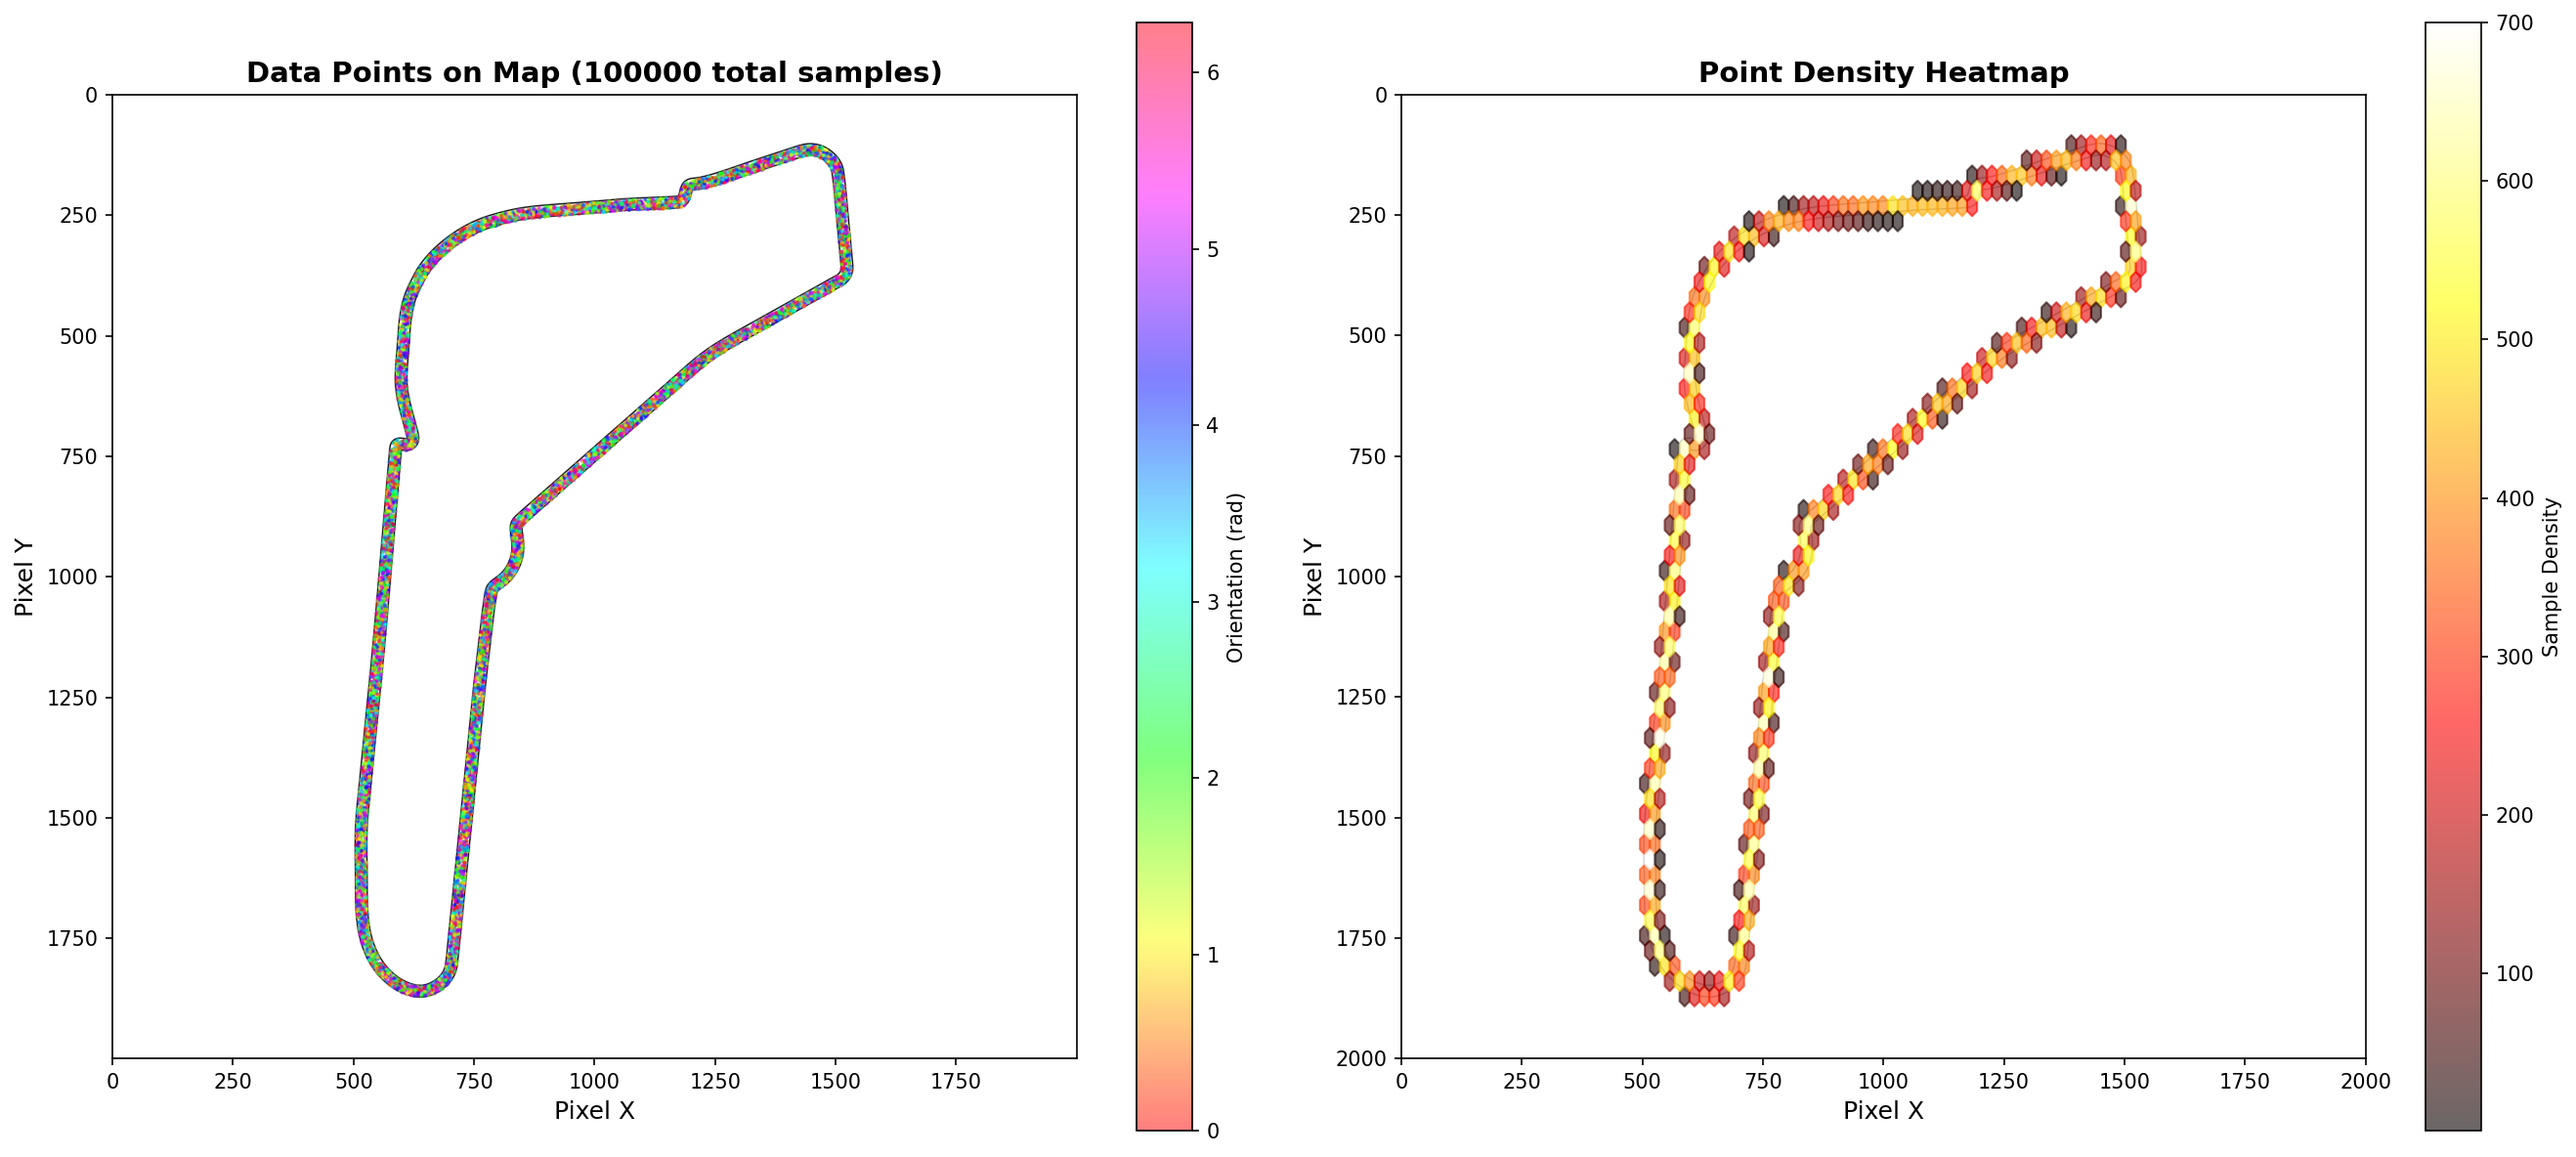
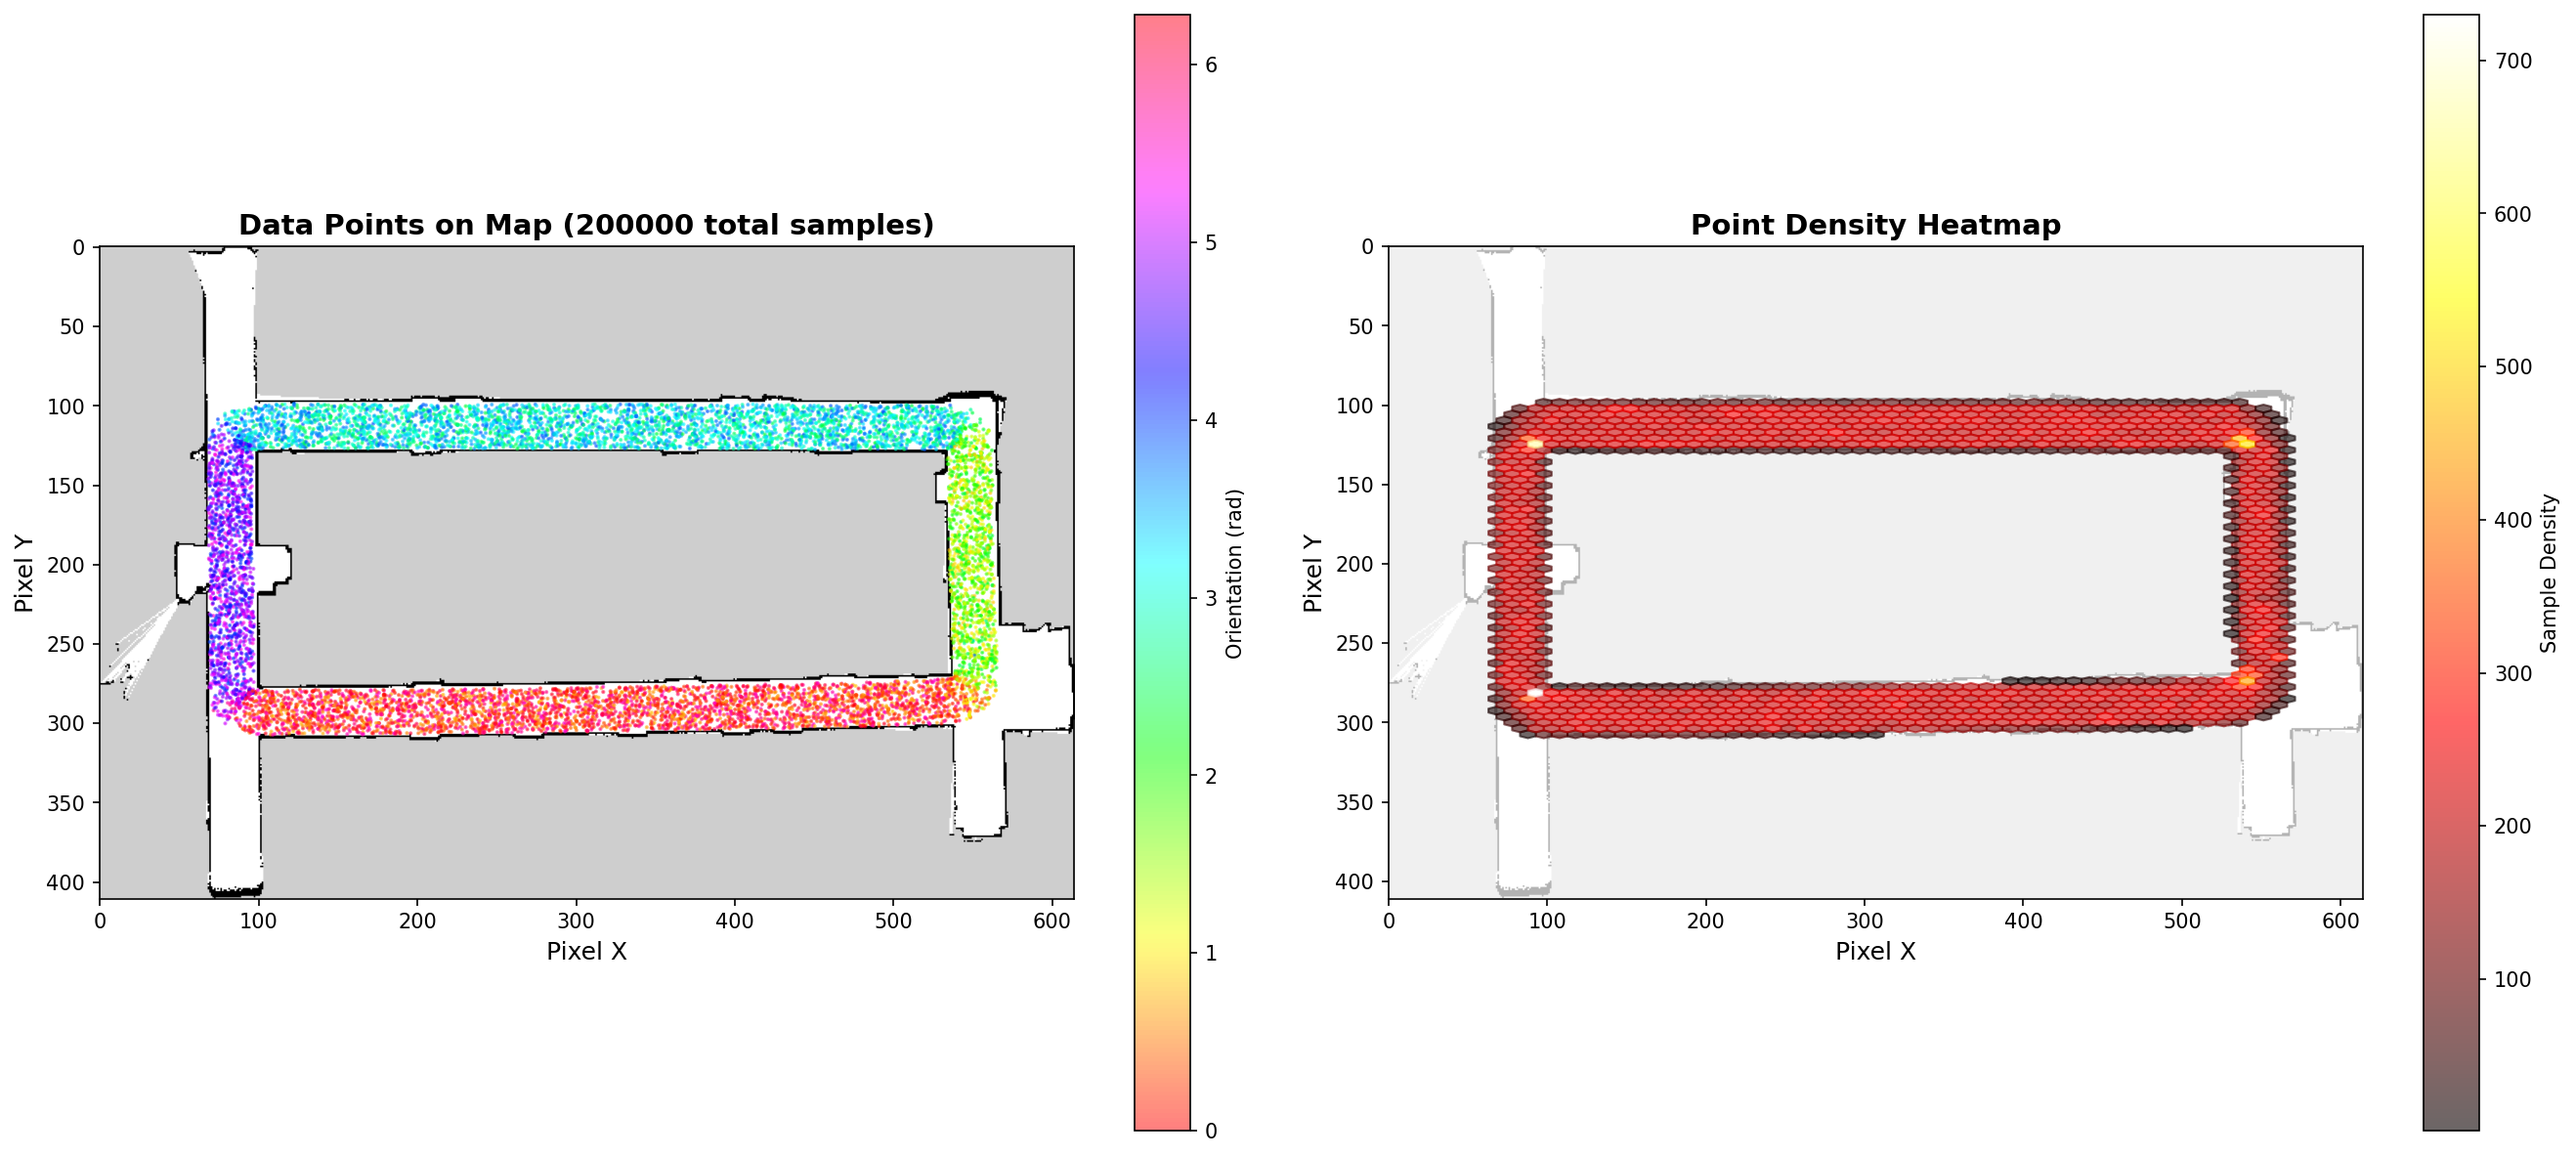
new changes

diff --git a/examples/data_collection/visualize_data_on_map.py b/examples/data_collection/visualize_data_on_map.py
@@ -11,7 +11,7 @@ from argparse import Namespace
 
 def load_map_image(map_path, map_ext):
     """Load the map image"""
-    if map_ext == '.png':
+    if map_ext in ['.png', '.pgm']:
         img = mpimg.imread(map_path + map_ext)
     else:
         print(f"Map extension {map_ext} not supported for visualization")
@@ -54,20 +54,30 @@ def visualize_data_on_map(data_file, config_file, max_points=None):
     print(f"X: min={x_positions.min():.2f}, max={x_positions.max():.2f}")
     print(f"Y: min={y_positions.min():.2f}, max={y_positions.max():.2f}")
 
+    # Derive map path from yaml 'image' field or 'map_path'/'map_ext' fields
+    if hasattr(conf, 'map_path') and hasattr(conf, 'map_ext'):
+        map_full_path = conf.map_path
+        map_ext = conf.map_ext
+    else:
+        # Levine-style yaml: has 'image' field with filename
+        import os
+        config_dir = os.path.dirname(config_file)
+        map_filename = conf.image  # e.g. 'levine_slam.pgm'
+        map_ext = os.path.splitext(map_filename)[1]
+        map_full_path = os.path.join(config_dir, os.path.splitext(map_filename)[0])
+
     # Load map image
-    print(f"\nLoading map from {conf.map_path}{conf.map_ext}...")
-    map_img = load_map_image(conf.map_path, conf.map_ext)
+    print(f"\nLoading map from {map_full_path}{map_ext}...")
+    map_img = load_map_image(map_full_path, map_ext)
 
     if map_img is None:
         print("Could not load map image, showing positions only")
         plot_positions_only(x_positions, y_positions, theta_positions, max_points)
         return
 
-    # Get map metadata from YAML
-    map_yaml_path = conf.map_path + '.yaml'
+    # Get map metadata from YAML (already loaded as conf)
     try:
-        with open(map_yaml_path) as f:
-            map_metadata = yaml.safe_load(f)
+        map_metadata = conf_dict
 
         resolution = map_metadata['resolution']
         origin = map_metadata['origin']
@@ -203,8 +213,8 @@ def plot_positions_only(x_positions, y_positions, theta_positions, max_points=No
 
 def main():
     # Configuration
-    data_file = 'Monza_100k.npz'  # Update path as needed
-    config_file = '../Monza/Monza_map.yaml'  # Update path as needed
+    data_file = 'Levine_200k.npz'
+    config_file = '../Levine/levine_slam.yaml'
     max_points = 10000  # Limit points for faster rendering
 
     visualize_data_on_map(data_file, config_file, max_points)

diff --git a/examples/collect_conformal_scores.py b/examples/collect_conformal_scores.py
@@ -84,6 +84,9 @@ def compute_residuals(model_path, calibration_data_path, n_input=360, n_hidden=2
     model.eval()
     print("Model loaded successfully!")
 
+    # Normalize LiDAR scans by max range (30m)
+    lidar_scans = lidar_scans / 30.0
+
     # Convert data to PyTorch tensors
     X = torch.from_numpy(lidar_scans).to(device)
     y_true = torch.from_numpy(poses).to(device)
@@ -253,14 +256,14 @@ def visualize_residual_distributions(R, error_bounds, conformal_band, output_pat
 
 def main():
     # Configuration - MUST match your training configuration!
-    model_path = 'data_collection/perception_model.pth'
-    calibration_data_path = 'data_collection/Monza_100k.npz'
+    model_path = 'data_collection/perception_model_levine.pth'
+    calibration_data_path = 'data_collection/Levine_200k.npz'
     device = 'cuda' if torch.cuda.is_available() else 'cpu'
 
     # Model architecture parameters - MUST match the saved model!
     n_input = 360  # Downsampled LiDAR scan
-    n_hidden = 2048  # Hidden layer size used during training
-    use_pos_encoding = True  # Multi-frequency positional encoding
+    n_hidden = 720  # Hidden layer size used during training
+    use_pos_encoding = False  # Multi-frequency positional encoding
     n_frequencies = 4  # Frequency bands (1, 2, 4, 8)
     dropout = 0.0
 
@@ -278,7 +281,7 @@ def main():
     print("Conformal score collection complete!")
 
     # Compute conformal error bounds
-    conformal_band = 0.5
+    conformal_band = 0.1
     error_bounds = np.quantile(R, conformal_band, axis=0)
 
     print(f"\n{'='*60}")
@@ -290,9 +293,9 @@ def main():
     print(f"{'='*60}\n")
 
     # Create visualizations
-    print("Creating visualizations...")
-    visualize_conformal_predictions(y_true, y_pred, error_bounds, conformal_band,
-                                   output_prefix='conformal_predictions')
+    # print("Creating visualizations...")
+    # visualize_conformal_predictions(y_true, y_pred, error_bounds, conformal_band,
+    #                                output_prefix='conformal_predictions')
 
     print("\nAll visualizations complete!")
 

diff --git a/examples/data_collection/train_perception_map.py b/examples/data_collection/train_perception_map.py
@@ -220,7 +220,7 @@ def main():
     parser.add_argument("--n_samples", help="number of samples from dataset for training",
                     type=int, default=150000)
     parser.add_argument("--data", "-d", help="path to data file (.npz)",
-                    type=str, default='./Monza_200k_wods.npz')
+                    type=str, default='./Levine_200k.npz')
 
     args = parser.parse_args()
 
